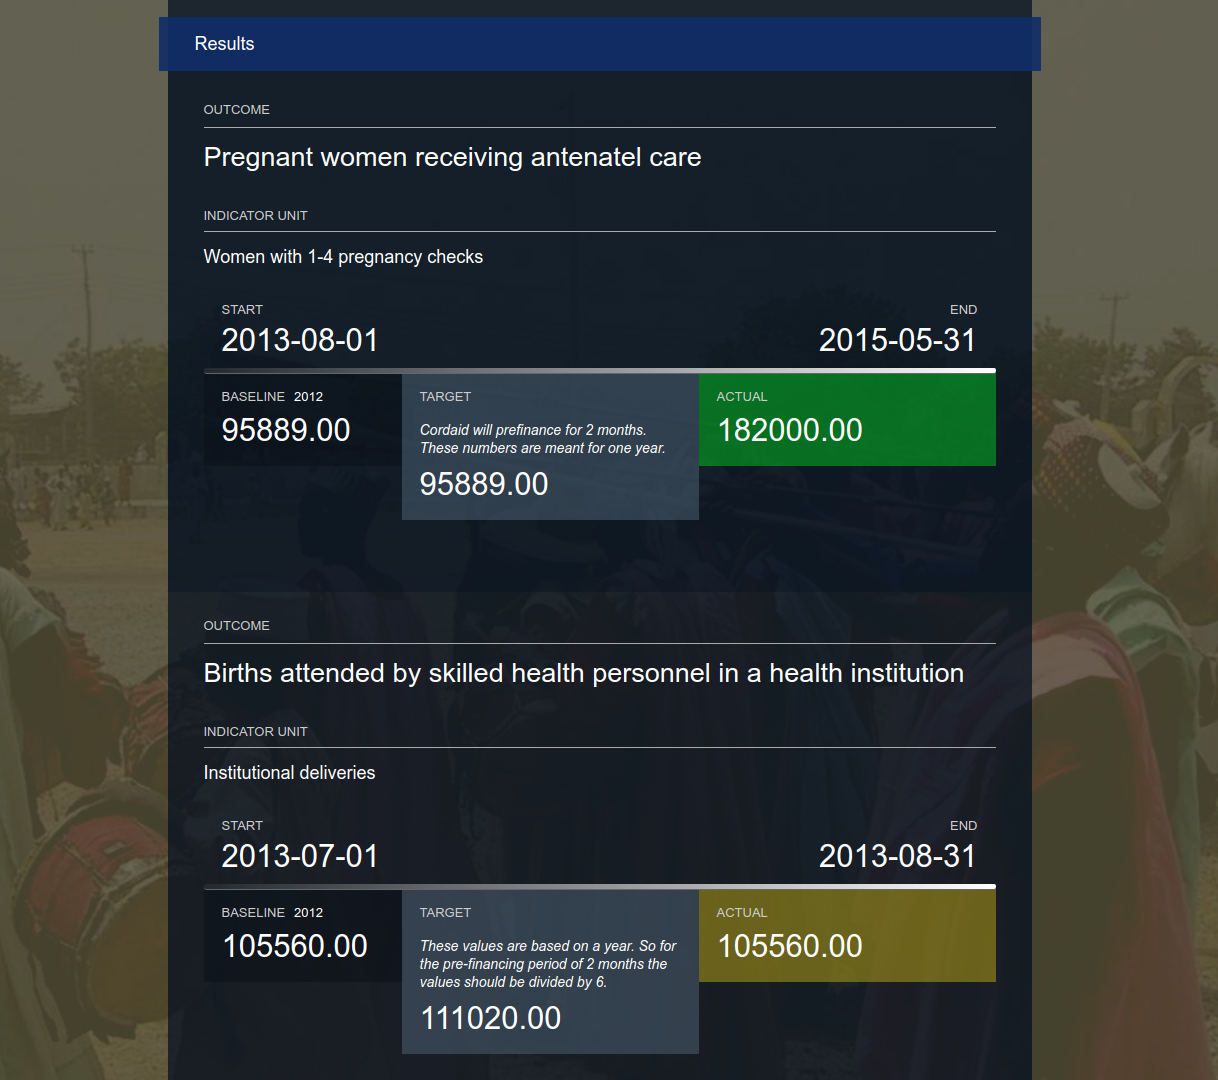
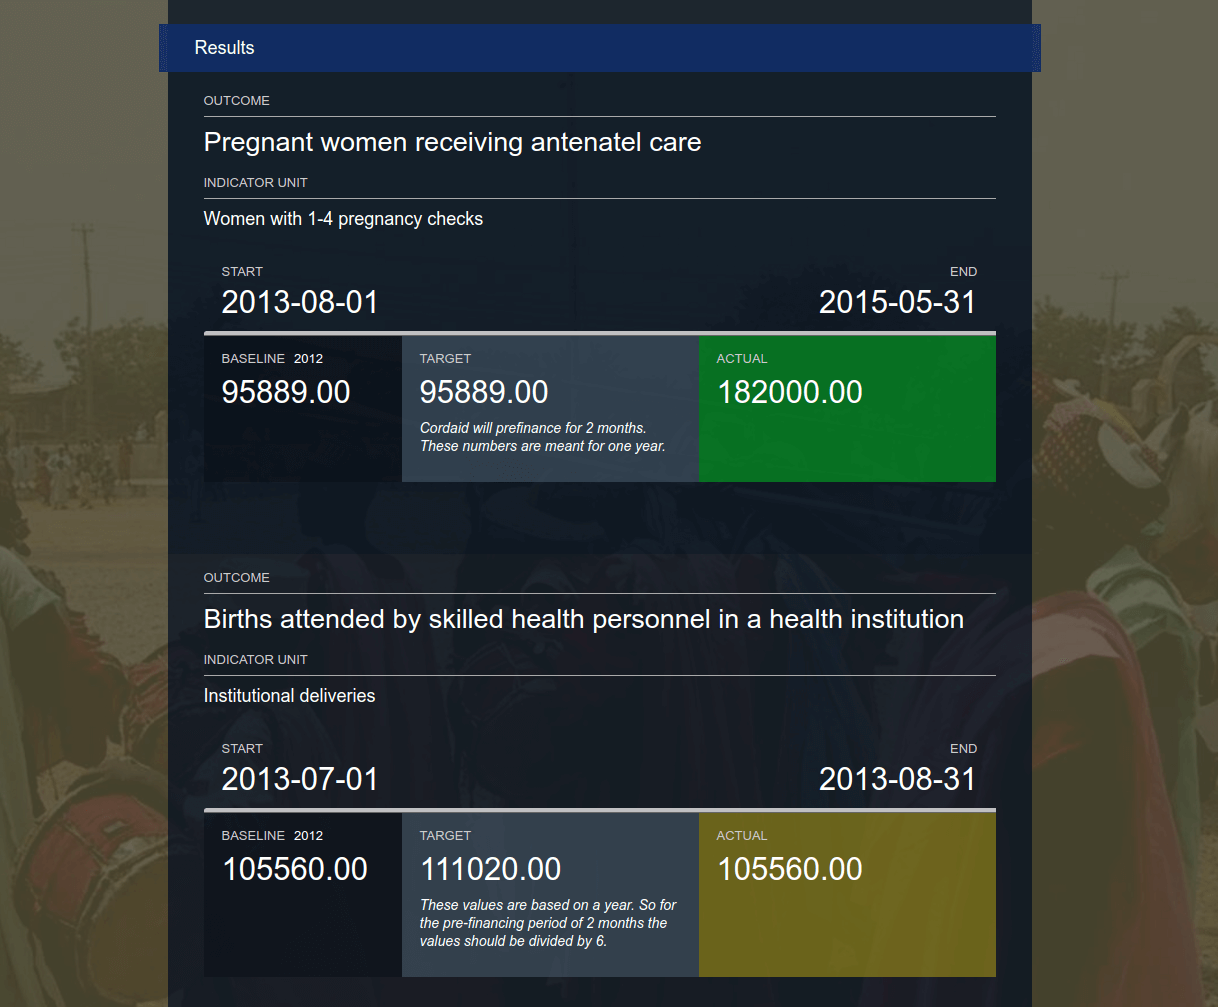
overdue blog post, more in changes.txt

diff --git a/dportal/html/news/2017-06-12-Finding-context-in-Results-data-and-new-query-parameter.html b/dportal/html/news/2017-06-12-Finding-context-in-Results-data-and-new-query-parameter.html
@@ -1,0 +1,196 @@
+#blog_title trim=ends
+
+Finding context in Results data and new query parameter
+
+#blog_body form=markdown
+
+
+Results data heirarchy is not particularly verbose.
+
+<img src="/art/news/2017-02-21/result.png" alt="Results element" 
+width="556" height="915">
+
+*Fig. 1 - The results element heirarchy*
+
+
+At its most basic, there is a title, description and an indicator. The 
+indicator makes up most of the results element with links to reference 
+documents, a baseline and the all important period element. Here in the 
+period element will contain the start and end dates, target and actual 
+values and within those, location and dimensions data like sex, gender 
+and age. Dimensions data is freetext so there are no restrictions to 
+what a publisher can well, publish. Due to this, data within this 
+element might be difficult to aggregate.
+
+There are also multiple narrative and comment elements within the 
+results subelements. We found that publishers tend to repeat themselves 
+rather than add new information in these sections.
+
+SAVi displays complex-looking IATI XML (the elements found in a single 
+activity) in a format that is hopefully, easier to read and digest. To 
+achieve this, we try to understand the context of the data being used 
+and how best to lay it out so that it makes the most sense to the 
+casual user. Thus far, we're only showing the most commonly used 
+elements of the IATI schema, which means there are still parts of the 
+XML hidden from view on SAVi pages. This doesn't mean we've changed the 
+original XML in any shape or form (you still have access to this via 
+the xml link on each SAVi page) but it does mean there are still many 
+parts of the iati-activity element that we've not fully understood or 
+explored. Hopefully, as more elements get adopted by publishers, we'll 
+get the opportunity to delve deeper into use cases that are in demand.
+
+When we were <a 
+href="https://github.com/devinit/D-Portal/issues/179">first asked to 
+display results data in SAVi</a>, we misunderstood it entirely! Without 
+context or how and what it was used for, a structure to compose a 
+visual layout was at most, based on assumptions.
+
+
+<img 
+src="http://devinit.org/wp-content/uploads/2016/03/resultsdatadportal.png" 
+alt="Results data" width="720" height="359">
+
+*Fig. 2 - First iteration of results data saw a rudimentary layout without 
+baseline data*
+
+
+The first thing we had to do was find some actual results data to work 
+with. Preferably an activity with most of the results subelement 
+completed; this seemed a harder feat than we thought.
+
+I visited the <a 
+href="http://dashboard.iatistandard.org/element/iati-activity_result.html">IATI 
+Dashboard</a> to point me in the right direction. The dashboard has 
+been really useful in terms of finding publishers using certain 
+elements, especially so for SAVi as we're always trying to visualise 
+certain sections of an activity and this always meant looking for 
+example data. The only thing I wish the dashboard would do was display 
+the full publisher name or even their reporting-org id instead of their 
+IATI Registry id as that would not only save me one more step 
+(currently, I have to click on the publisher link to find out the 
+actual publisher name) but it would be consistent with other parts of 
+the dashboard website where the full publisher names are displayed.
+
+In any case, there was still a lot to do after this to find an activity 
+that has a high completion of the result subelements. This prompted us 
+to add a **new query parameter to Q which is live right now on 
+d-portal**. Give it a go!
+
+
+<code><a href="http://d-portal.org/q.json?from=element&orderby=element_volume-&limit=10&element_name0=result">http://d-portal.org/q.json?from=element&orderby=element_volume-&limit=10&element_name0=result</a></code>
+
+The above query will display the top 10 activities that contain the 
+'result' element in descending order of frequency as JSON. Replace 
+**.json** with **.html**, **.xml** or **.csv** if you prefer.
+
+
+The query is 4 levels deep, this is enough to reach the deepest part of 
+the IATI standard. For example, if I want to search for activities that 
+have dimension data within the target element of results data, my query 
+will look like this:
+
+
+<code><a href="http://d-portal.org/q.json?from=element&orderby=element_volume-&limit=10&element_name0=dimension&element_name1=target&element_name2=period&element_name3=indicator">http://d-portal.org/q.json?from=element&orderby=element_volume-&limit=10&element_name0=dimension&element_name1=target&element_name2=period&element_name3=indicator</a></code>
+
+As you can see, the query starts with the innermost element and you'll 
+need to list the hierarchy as it appears <a 
+href="http://iatistandard.org/202/activity-standard/iati-activities/iati-activity/result/">in 
+the standard</a>.
+
+We started going down the route of deeper searches into attributes but 
+this is a rather resource hungry option so we've taken it out for now. 
+If there are demands for such things in the future, do let us know.
+
+
+During the four-day <a 
+href="http://www.publishwhatyoufund.org/open-ag-funding-action-tools-tackle-hunger/">Open 
+Ag Tool workshop</a>, we met experts in the field who gave us guidance 
+on approaching results data. Nadeja Mandrescu from Development Gateway 
+not only shared how results data was published and how baseline was 
+calculated, she also explained how different publishers had different 
+approaches to publishing this data - Yearly, Quarterly etc. This gave 
+us some context and a brief overview of the rather complex nature of 
+the results data element.
+
+
+<img src="/art/news/2017-02-21/cordaid_result_2col.png" alt="Results data in activity" width="720" height="638">
+
+*Fig. 3 - WIP iteration of results data with two columns made the baseline look 
+out of place*
+
+
+We were later approached by Andy Lulham from Publish What You Fund 
+about the way we visualised baseline data (or rather, the lack of it)! 
+He pointed out the importance of baseline data, how it provided context 
+for the target and actual elements and how it would make better visual 
+sense to include it alongside the two columns. This looked like it was 
+getting somewhere close to making sense!
+
+Looking closer, we agreed that baseline could be interpreted as the 
+'start' value where 'target' and 'actual' data is based on (hence, 
+'baseline').
+
+
+Throughout the day, we huddled with so many exchanging findings. Nick 
+Hamlin from Global Giving shared interesting observations when he 
+applied machine learning to a results dataset we supplied him with. We 
+both agreed that there is still the issue of what results actually mean 
+to publishers and this interpretation affects the level of granularity 
+being published. Reid Porter from InterAction shared at length the 
+background of historical data and how things can get lost in 
+translation when very complex multi-system architectures are used 
+within organisations, to then derive standardised results data from 
+these systems is a close to impossible feat. Taryn Davis from 
+Development Gateway shared the need for visualisations and computing 
+graphs from results data that could be viewed on an ag specific 
+dashboard. We all agreed that numerical values in the target and actual 
+elements were best to achieve aggregation than having text in there as 
+well.
+
+We prodded further and found that baseline years were usually in 
+alignment with period-start years but also that at times, publishers 
+were publishing more than one period within an indicator. In terms of 
+hierarchy, baseline data sits outside the period element which means 
+multiple periods share just the one baseline.
+
+Visualising this as a three column layout will be tricky so we've 
+duplicated the baseline element into each period element, after the 
+period-start and period-end dates. This meant the 3 columns could be 
+used to compare values within the period element and visually, that 
+made sense.
+
+
+<img src="/art/news/2017-02-21/cordaid_result_1.png" alt="Results data in activity" width="720" height="638">
+
+*Fig. 4 - Next iteration of results data with 3 columns for comparison*
+
+We've attached further visual feedback to the actual elements; green if 
+the actual value is equals to or more than the target value and 
+off-yellow for actual values that are less than the target value. The 
+actual box remains neutral blue if value data is missing or incorrect; 
+ie. text is published instead of actual numbers.
+
+We've also added a small indicator to show if the period data is still 
+ongoing or has ended. This is represented by a 'progress bar' timeline 
+underneath the period dates.
+
+
+<img src="/art/news/2017-02-21/cordaid_result.png" alt="Results data in activity" width="720" height="638">
+
+*Fig. 5 - Current iteration of results data with fixed height and timeline bar*
+
+You can view this particular example activity on d-portal <a 
+href="http://d-portal.org/ctrack.html?search=pregnant&publisher=NL-KVK-41160054#view=act&aid=NL-KVK-41160054-109805">here</a>.
+
+**Results data with indicators and values are now live on d-portal** and 
+further iterations will continue as we get a better understanding of 
+how to present the data for use.
+
+Many thanks to the organisers of the workshop and everyone who came up 
+to us to share knowledge, it was humbling and eye-opening to see so 
+many dedicated people working together towards the same goal with so 
+much enthusiasm. We look forward to following the progress of all the 
+resulting projects and outcomes of this workshop.
+
+
+*This is a developer diary blog post by Shi.*

diff --git a/ctrack/art/high/activities.css b/ctrack/art/high/activities.css
@@ -152,7 +152,7 @@ result[type="3"] span-title:before	{content:"IMPACT";}
 result[type="9"] span-title:before	{content:"OTHER";}
 
 result indicator			{display:block; margin:auto; margin-top:30px; margin-bottom:40px; width:880px;}
-result indicator:first-of-type	{margin-top:10px;}
+result indicator:first-of-type	{margin-top:20px;}
 result indicator:before		{content:"INDICATOR"; font-size:14px; color:#000; display:block; margin:auto; margin-bottom:15px; border-bottom:1px solid #000; padding:10px 0;}
 result indicator[measure="1"]:before	{content:"INDICATOR UNIT";}
 result indicator[measure="2"]:before	{content:"INDICATOR PERCENTAGE";}
@@ -175,8 +175,8 @@ result indicator period actual:before	{content:"ACTUAL"; font-size:14px; color:#
 result indicator period period-start, result indicator period period-end,
 result indicator period target, result indicator period actual	{display:inline-block; vertical-align:top; width:440px;}
 
-result indicator period period-start{width:180px; padding:20px; font-size:34px;}
-result indicator period period-end	{width:620px; padding:20px; font-size:34px; text-align:right;}	
+result indicator period period-start{width:180px; padding:20px; padding-left:0; font-size:34px;}
+result indicator period period-end	{width:660px; padding:20px; padding-right:0; font-size:34px; text-align:right;}		
 
 result indicator period target > *	{display:block;}
 result indicator period actual > *	{display:block;}

diff --git a/ctrack/art/original/activities.css b/ctrack/art/original/activities.css
@@ -146,7 +146,7 @@ result[type="3"] span-title:before	{content:"IMPACT";}
 result[type="9"] span-title:before	{content:"OTHER";}
 
 result indicator			{display:block; margin:auto; margin-top:30px; margin-bottom:40px; width:880px;}
-result indicator:first-of-type	{margin-top:10px;}
+result indicator:first-of-type	{margin-top:20px;}
 result indicator:before		{content:"INDICATOR"; font-size:14px; color:#ccc; display:block; margin:auto; margin-bottom:10px; border-bottom:1px solid #aaa; padding:10px 0;}
 result indicator[measure="1"]:before	{content:"INDICATOR UNIT";}
 result indicator[measure="2"]:before	{content:"INDICATOR PERCENTAGE";}
@@ -169,8 +169,8 @@ result indicator period actual:before	{content:"ACTUAL"; font-size:14px; color:#
 result indicator period period-start, result indicator period period-end,
 result indicator period target, result indicator period actual	{display:inline-block; vertical-align:top; width:440px;}
 
-result indicator period period-start{width:180px; padding:20px; font-size:34px;}
-result indicator period period-end	{width:620px; padding:20px; font-size:34px; text-align:right;}	
+result indicator period period-start{width:180px; padding:20px; padding-left:0; font-size:34px;}
+result indicator period period-end	{width:660px; padding:20px; padding-right:0; font-size:34px; text-align:right;}	
 
 result indicator period target > *	{display:block;}
 result indicator period actual > *	{display:block;}
